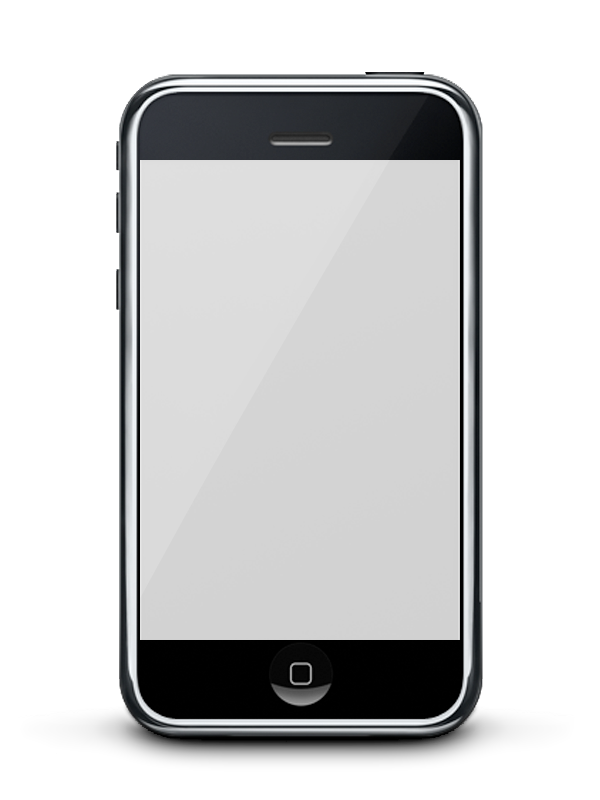
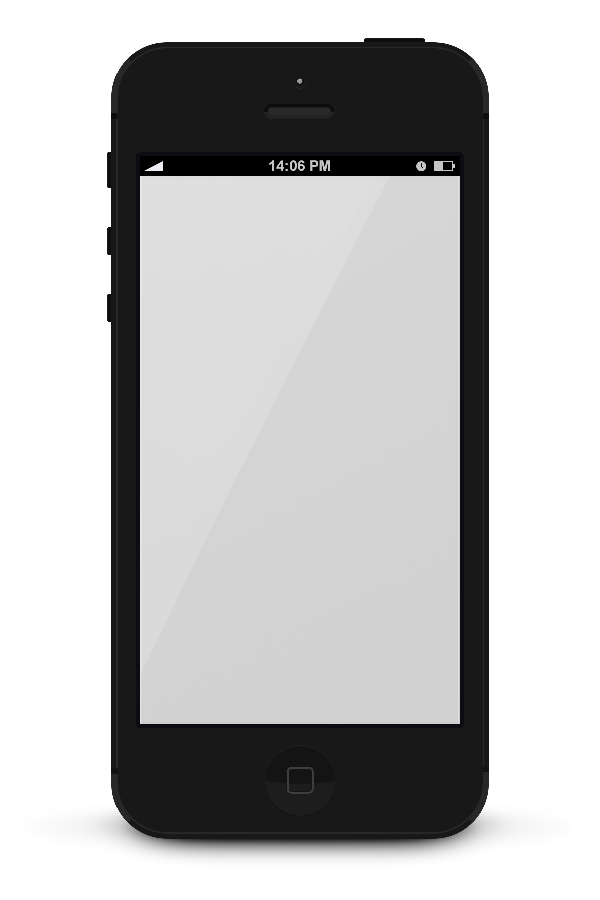
add new bezel

Changed region(s): [[0.18, 0.0312, 0.84, 0.9688]]

diff --git a/scss/mobile/_misc.scss b/scss/mobile/_misc.scss
@@ -3,10 +3,11 @@
 /* - - - - - - - - - - - - - - - - - - - - - - - - - - - - - - - - - - - - */
 .bezel {
     background-image: url("../images/mobile/bezel.png");
+    height: $bzH;
     margin: auto;
     padding: $bzT $bzL;
     position: relative;
-    width: $bzW; height: $bzH;
+    width: $bzW;
 
     body:hover & {
         z-index: 1;

diff --git a/scss/mobile/_all.scss b/scss/mobile/_all.scss
@@ -2,7 +2,7 @@
 /* MOBILE */
 /* - - - - - - - - - - - - - - - - - - - - - - - - - - - - - - - - - - - - */
 $bzW: 600px; $dpW: 320px;
-$bzH: 800px; $dpH: 480px;
+$bzH: 900px; $dpH: 548px;
 
 $bzL: ($bzW - $dpW) / 2;
 $bzT: ($bzH - $dpH) / 2;
